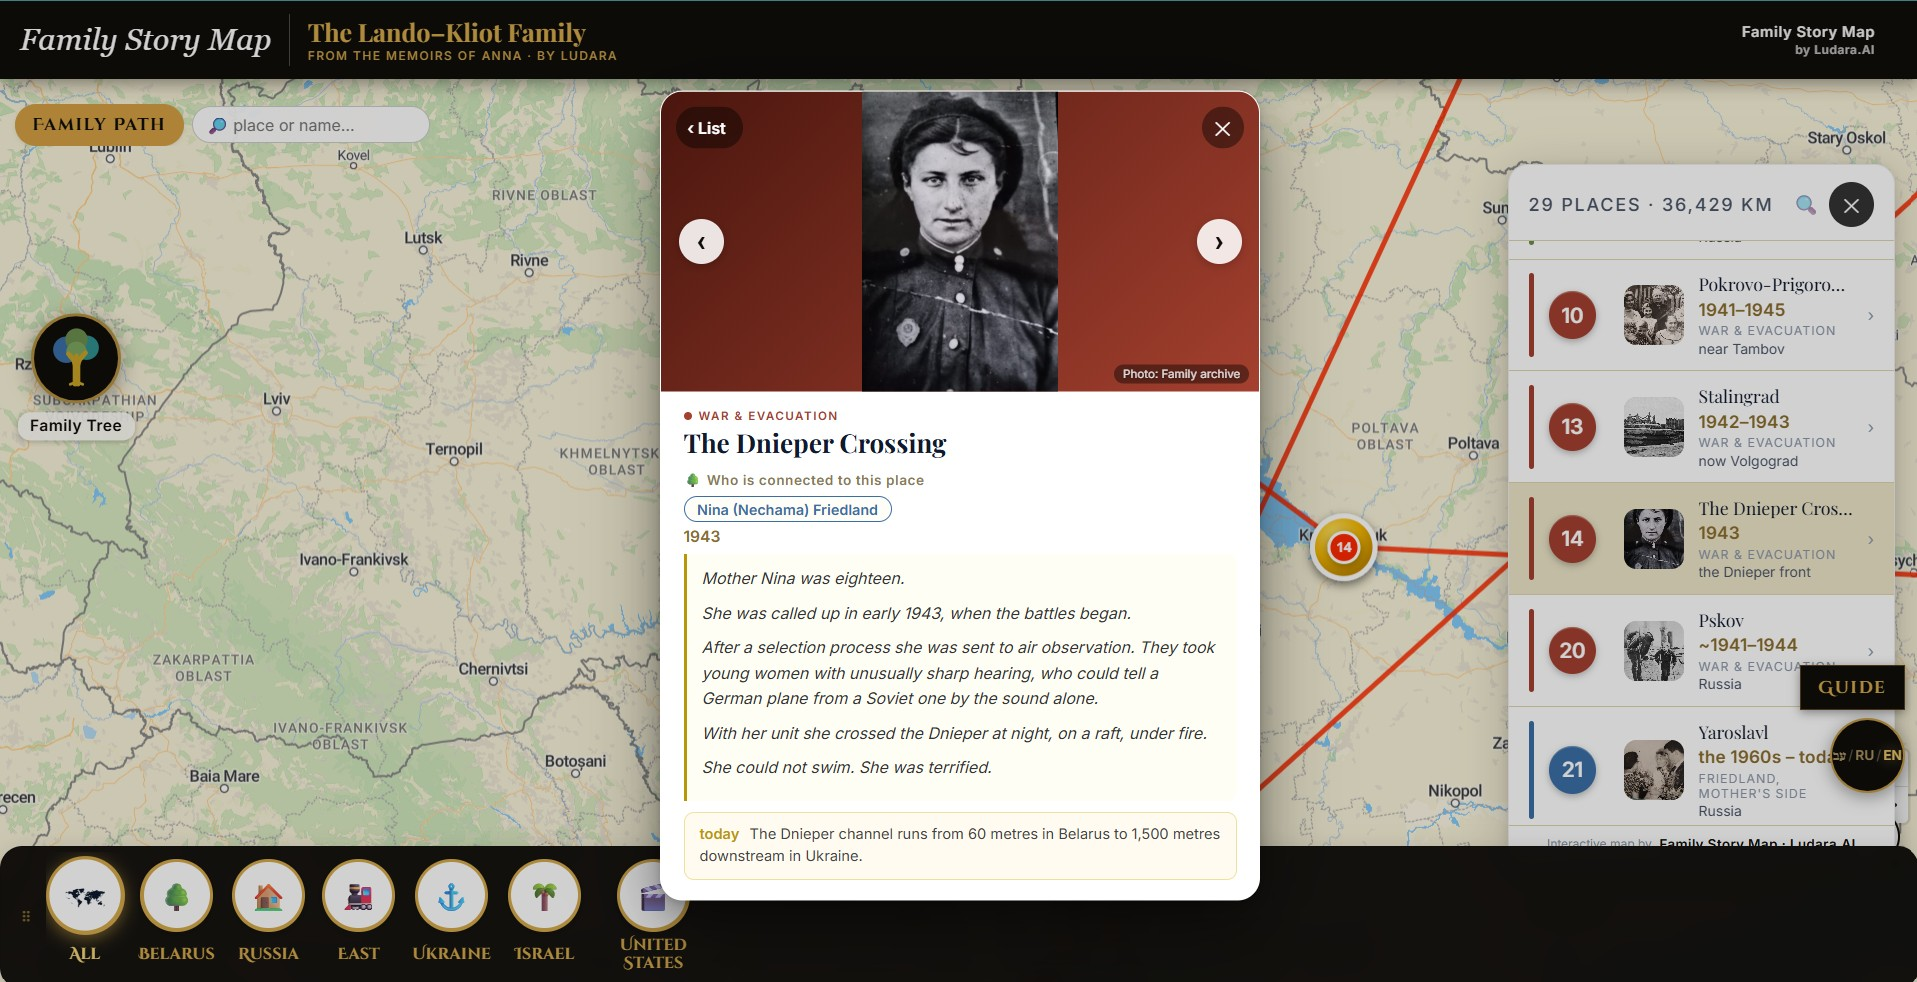
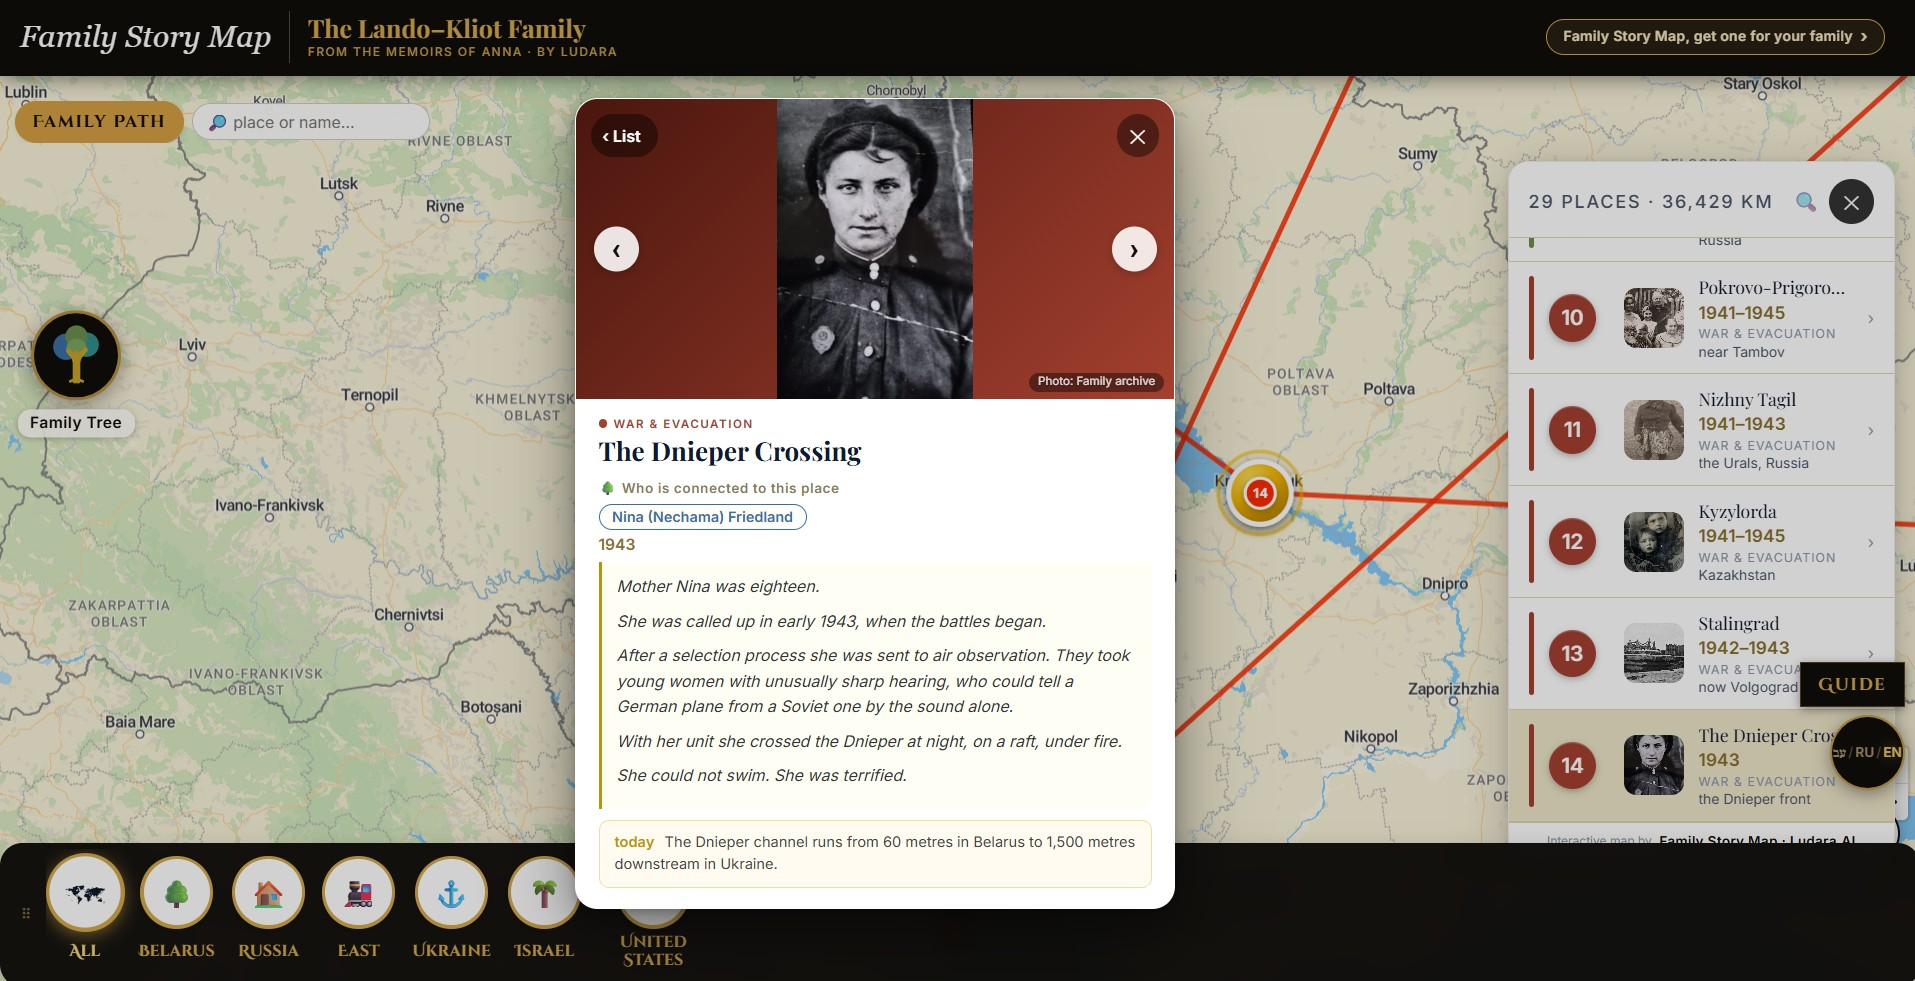
Update site 11/08/2026 17:23:03.35

diff --git a/familystorymap/index.html b/familystorymap/index.html
@@ -398,15 +398,11 @@
   <div class="inner">
     <p class="kicker-dark">What the family sees</p>
     <h2 class="dark">A century of journeys, in the language each of them reads.</h2>
+    <p class="sub-dark" style="margin-top:10px;max-width:74ch;">One link opens in Hebrew, Russian or English, and each reader picks their own. Stories, names, tree and every button switch together. Shown with the family&rsquo;s permission.</p>
     <div class="shots">
 
       <div class="shot-item">
-        <div class="shot-frame"><img src="../assets/fsm-hero-splash-v2.webp" alt="The opening screen of a Family Story Map: the family photograph behind a welcome in English, Hebrew and Russian" loading="lazy"/></div>
-        <p class="shot-cap"><b>Everyone reads it in their own language.</b> One link opens in Hebrew, Russian or English, and each reader picks their own. Stories, names, tree and every button switch together. Shown with the family&rsquo;s permission.</p>
-      </div>
-
-      <div class="shot-item">
-        <div class="shot-frame"><img src="../assets/fsm-place-card-v2.webp" alt="A place card open over the map: an archive portrait, the family members connected to the place, the year, and the passage from the memoir describing it" loading="lazy"/></div>
+        <div class="shot-frame"><img src="../assets/fsm-place-card-v3.webp" alt="A place card open over the map: the archive portrait of an eighteen-year-old woman in uniform, the family member connected to the place, the year 1943, and the passage from the memoir describing her crossing of the Dnieper" loading="lazy"/></div>
         <p class="shot-cap"><b>Open a place and the story is waiting.</b> The archive photograph, who in the family is connected to it, the passage from the memoir in the writer&rsquo;s own words, and a line on what stands there today. Nothing paraphrased, nothing invented.</p>
       </div>
 
